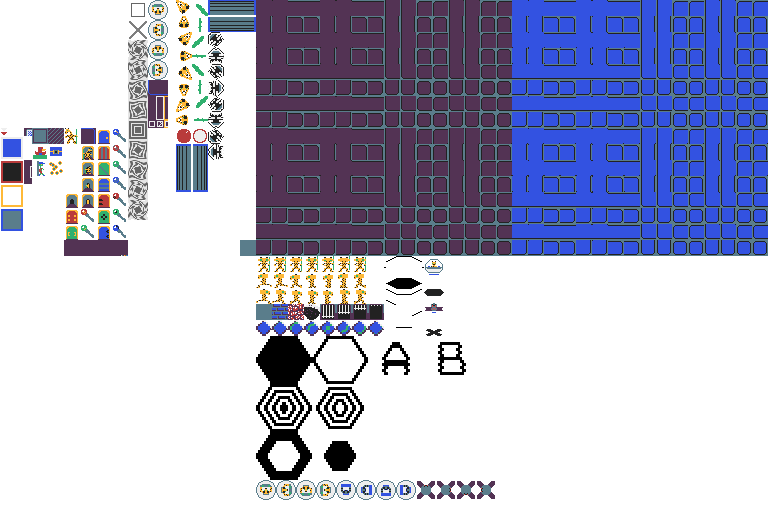
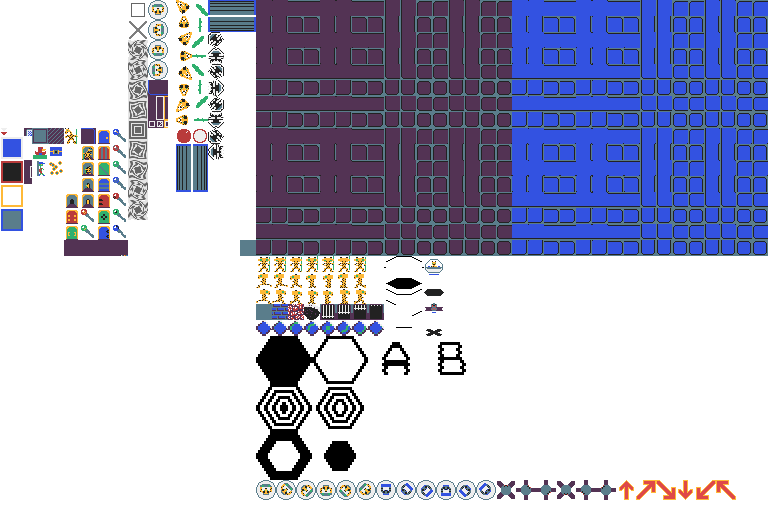
extend piece gfx to 6 directions, and add arrow

Changed region(s): [[0.3438, 0.9375, 0.9688, 1.0]]

diff --git a/libs/hex_twiddle/src/hex_twiddle.rs b/libs/hex_twiddle/src/hex_twiddle.rs
@@ -435,7 +435,6 @@ fn twiddle(tiles: &mut Tiles, key: Key, twiddle_amount: Twiddle) {
                 targeting.offsets[offsets_i] = Offset::from(qrs::Targeting{ source, target: targeting.target });
                 offsets_i += 1;
 
-                // TODO handle each case properly, including direction
                 angle = match twiddle {
                     Twiddle::OneSixth => None,
                     Twiddle::TwoSixths => Some(Twiddle::OneSixth),
@@ -700,7 +699,7 @@ impl State {
                 command::Rect::from_unscaled(specs.hex_twiddle_tiles.rect(xy)),
                 match tile.kind {
                     TileKind::Symbol(_) => 0xFF3352E1,
-                    TileKind::Warp => 0xFF533354,
+                    TileKind::Warp => 0xFF3352E1,
                     TileKind::Split => 0xFFDE4949,
                 }
             );
@@ -718,7 +717,7 @@ impl State {
                 command::Rect::from_unscaled(specs.hex_twiddle_tiles.rect(xy)),
                 match tile.kind {
                     TileKind::Symbol(_) => 0xFF222222,
-                    TileKind::Warp => 0xFF5A7D8B,
+                    TileKind::Warp => 0xFFDE4949,
                     TileKind::Split => 0xFF30B06E,
                 }
             );